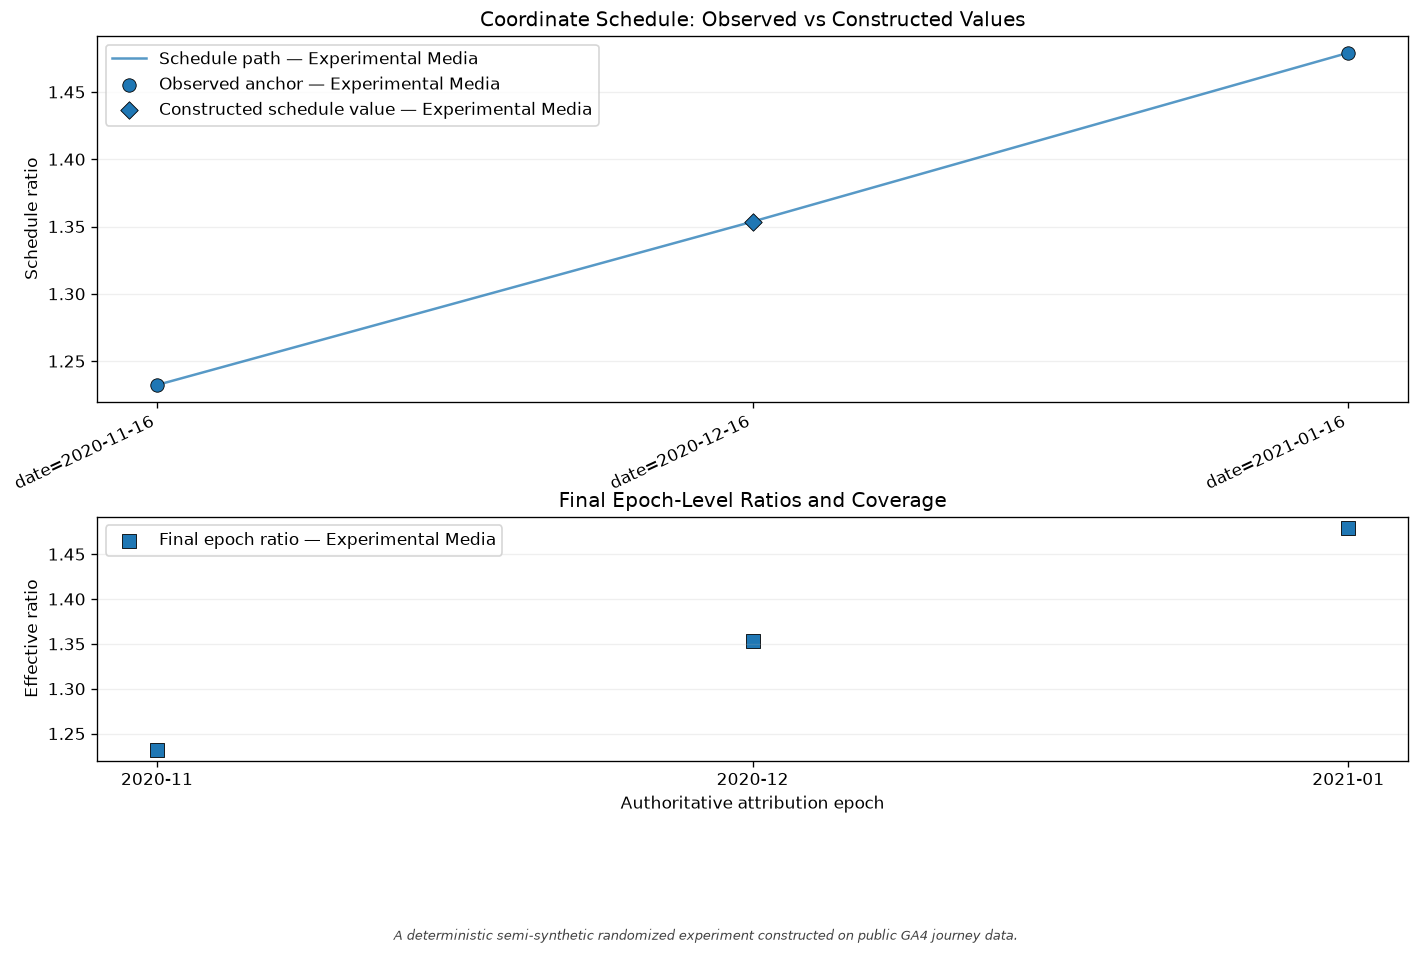
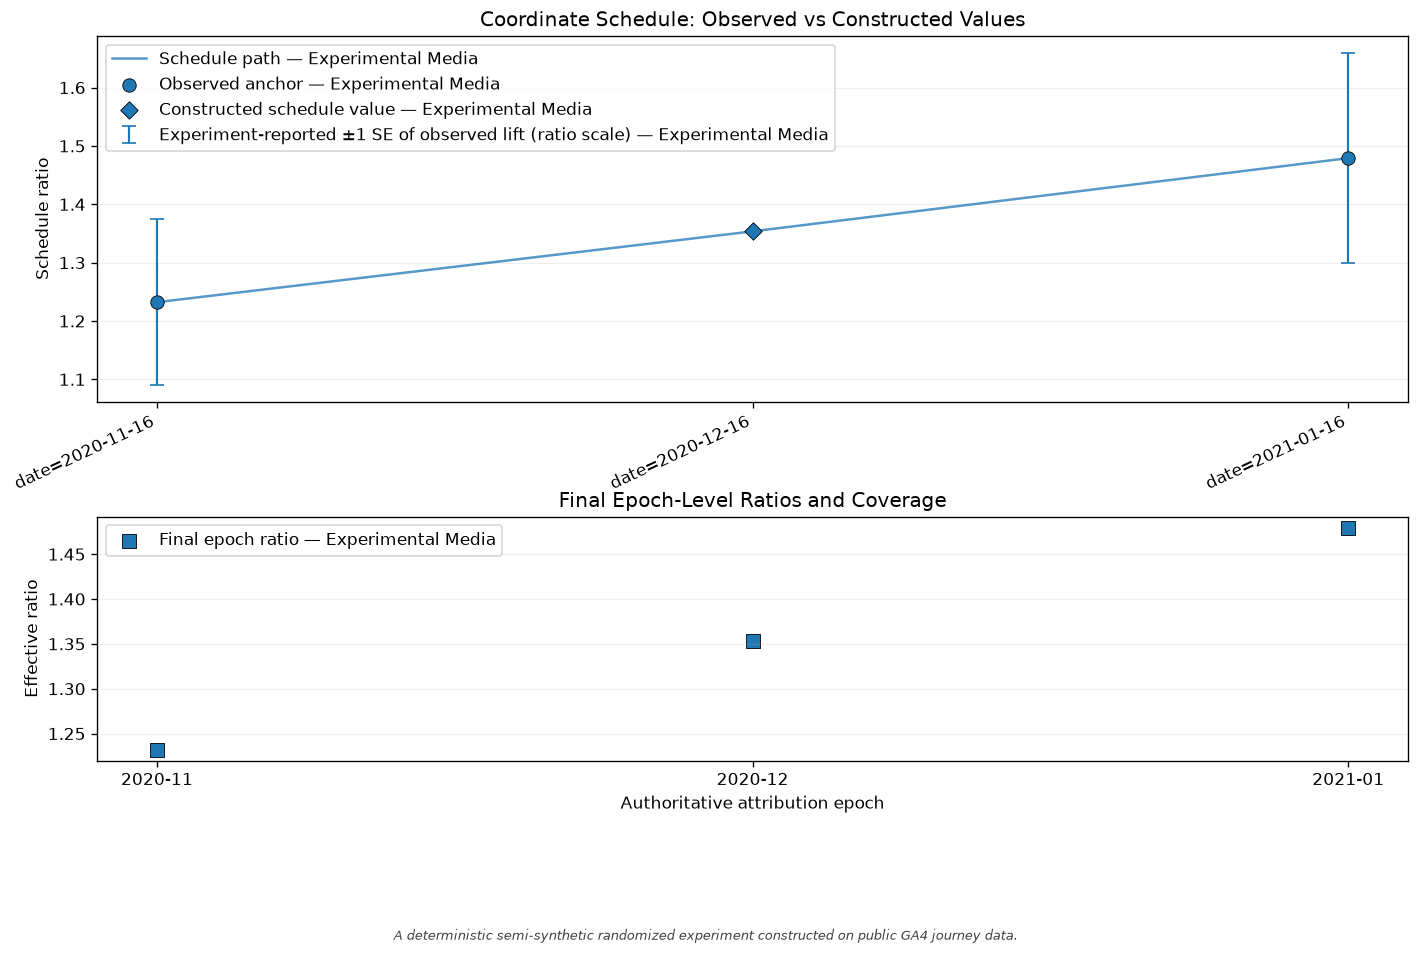
Item 4 follow-up: regenerate the calibration image bank for the SE display
The item 4 commit left two artifacts behind: the checked-in ratio-schedule
image still showed no standard-error bars, and the new
plot_evidence_uncertainty() was not part of the image generator or the
image bank.

- examples/generate_calibration_visuals.py now renders all eight public
  plot methods; the new one writes
  calibration_temporal_evidence_uncertainty.png.
- examples/images/calibration_temporal_ratio_schedule.png is regenerated
  (observed anchors now carry the experiment-reported ±1 SE bars) and
  calibration_temporal_evidence_uncertainty.png is added. The other six
  images are untouched: a fresh generation is pixel-identical to the
  checked-in files.
- docs/calibration_diagnostics.md lists the new image, and the artifact
  test expects eight files and eight plot calls.
- plot_evidence_uncertainty() moves its "what the bars are" note from a
  three-line x-axis label into the legend title. Under the generator's
  footer the long axis label overlapped the provenance line; the axis
  label is now the single line "Observed experimental lift". The legend
  title is omitted when no record reported a standard error.

Images were rendered with matplotlib's stock matplotlibrc. This
container overrides it (MATPLOTLIBRC=/etc/matplotlib, Inter font); with
the stock file the original commit's generator reproduces the previously
checked-in bank exactly.

Claude-Session: https://claude.ai/code/session_01Fvw32bA66vrVMREKAnMTfR

diff --git a/tests/test_temporal_evidence_uncertainty_plot.py b/tests/test_temporal_evidence_uncertainty_plot.py
@@ -164,16 +164,15 @@ def test_bars_are_labelled_as_the_experiments_reported_uncertainty() -> None:
             "Experiment-reported ±1 standard error — A",
             "Experiment-reported ±1 standard error — B",
         }
-        label = " ".join(axis.get_xlabel().split())
-        assert label.startswith("Observed experimental lift")
-        assert (
-            "±1 standard error reported by the experiment for its observed lift"
-            in label
+        assert axis.get_xlabel() == "Observed experimental lift"
+        # The legend, where the bars are decoded, says what they are and
+        # what they are not.
+        note = " ".join(axis.get_legend().get_title().get_text().split())
+        assert note == (
+            "Bars: ±1 standard error reported by the experiment for its "
+            "observed lift — not a confidence interval on calibrated output "
+            "or attribution estimates"
         )
-        assert (
-            "not a confidence interval on calibrated output or attribution "
-            "estimates"
-        ) in label
         for text in [axis.get_title(), *legend, *_annotations(axis)]:
             lowered = text.lower()
             assert "confidence" not in lowered
@@ -198,6 +197,9 @@ def test_records_without_a_standard_error_are_points_marked_no_uncertainty_suppl
             "Observed experimental lift — A",
             "Observed experimental lift — B",
         ]
+        # With no bars drawn there is no bar explanation either.
+        assert axis.get_legend().get_title().get_text() == ""
+        assert axis.get_xlabel() == "Observed experimental lift"
     finally:
         plt.close(figure)
 

diff --git a/tests/test_calibration_visual_artifacts.py b/tests/test_calibration_visual_artifacts.py
@@ -27,6 +27,7 @@ EXPECTED_FILENAMES = (
     "calibration_static_effects.png",
     "calibration_temporal_epoch_alignment.png",
     "calibration_temporal_ratio_schedule.png",
+    "calibration_temporal_evidence_uncertainty.png",
     "calibration_temporal_effects.png",
     "calibration_temporal_residual_allocation.png",
     "calibration_temporal_entity_mix.png",
@@ -61,7 +62,7 @@ def test_checked_in_artifact_bank_has_exact_readable_png_inventory() -> None:
             assert image.height >= 450
 
 
-def test_generator_calls_all_seven_public_plot_methods(
+def test_generator_calls_all_eight_public_plot_methods(
     tmp_path: Path,
     monkeypatch: pytest.MonkeyPatch,
 ) -> None:
@@ -74,6 +75,7 @@ def test_generator_calls_all_seven_public_plot_methods(
         for name in (
             "plot_epoch_alignment",
             "plot_ratio_schedule",
+            "plot_evidence_uncertainty",
             "plot_calibration_effects",
             "plot_residual_allocation",
             "plot_entity_mix",
@@ -104,6 +106,7 @@ def test_generator_calls_all_seven_public_plot_methods(
         "CalibrationResult.plot_calibration_effects",
         "TemporalCalibrationResult.plot_epoch_alignment",
         "TemporalCalibrationResult.plot_ratio_schedule",
+        "TemporalCalibrationResult.plot_evidence_uncertainty",
         "TemporalCalibrationResult.plot_calibration_effects",
         "TemporalCalibrationResult.plot_residual_allocation",
         "TemporalCalibrationResult.plot_entity_mix",

diff --git a/examples/generate_calibration_visuals.py b/examples/generate_calibration_visuals.py
@@ -46,6 +46,7 @@ ARTIFACT_FILENAMES = (
     "calibration_static_effects.png",
     "calibration_temporal_epoch_alignment.png",
     "calibration_temporal_ratio_schedule.png",
+    "calibration_temporal_evidence_uncertainty.png",
     "calibration_temporal_effects.png",
     "calibration_temporal_residual_allocation.png",
     "calibration_temporal_entity_mix.png",
@@ -121,7 +122,7 @@ def _save_figure(figure: Any, destination: Path) -> None:
 def generate_calibration_visuals(
     output_dir: str | Path = DEFAULT_OUTPUT_DIR,
 ) -> tuple[Path, ...]:
-    """Generate all seven public calibration PNG artifacts."""
+    """Generate all eight public calibration PNG artifacts."""
 
     destination = Path(output_dir)
     destination.mkdir(parents=True, exist_ok=True)
@@ -135,6 +136,7 @@ def generate_calibration_visuals(
         static_result.plot_calibration_effects(),
         temporal_result.plot_epoch_alignment(),
         temporal_result.plot_ratio_schedule(),
+        temporal_result.plot_evidence_uncertainty(),
         temporal_result.plot_calibration_effects(),
         temporal_result.plot_residual_allocation(),
         temporal_result.plot_entity_mix(),
@@ -157,7 +159,7 @@ def _parser() -> argparse.ArgumentParser:
         "--output-dir",
         type=Path,
         default=DEFAULT_OUTPUT_DIR,
-        help="Directory that receives the seven deterministic PNG files.",
+        help="Directory that receives the eight deterministic PNG files.",
     )
     return parser
 

diff --git a/do_attribution/calibration.py b/do_attribution/calibration.py
@@ -8139,20 +8139,29 @@ class TemporalCalibrationResult:
             [f"{record.test_id} ({record.tested_entity})" for record in records]
         )
         ax.set_ylim(len(records) - 0.4, -0.6)
-        ax.set_xlabel(
-            "Observed experimental lift\n"
-            "Bars: ±1 standard error reported by the experiment for its "
-            "observed lift —\n"
-            "not a confidence interval on calibrated output or attribution "
-            "estimates"
-        )
+        ax.set_xlabel("Observed experimental lift")
         ax.set_ylabel("Evidence record")
         ax.set_title(
             "Experimental Evidence: Observed Lift ± Experiment-Reported "
             "Standard Error"
         )
         ax.grid(axis="x", alpha=0.2)
-        ax.legend(loc="best")
+        # The bars are explained where they are decoded, in the legend, so
+        # the axis label stays one line under any figure layout.
+        any_reported = any(
+            record.standard_error is not None for record in records
+        )
+        ax.legend(
+            loc="best",
+            title=(
+                "Bars: ±1 standard error reported by the experiment for its "
+                "observed lift —\nnot a confidence interval on calibrated "
+                "output or attribution estimates"
+                if any_reported
+                else None
+            ),
+            title_fontsize=8,
+        )
         fig.tight_layout()
         return fig
 

diff --git a/docs/calibration_diagnostics.md b/docs/calibration_diagnostics.md
@@ -38,6 +38,8 @@ fixed scenario:
 
 ![Temporal ratio schedule](../examples/images/calibration_temporal_ratio_schedule.png)
 
+![Temporal evidence uncertainty](../examples/images/calibration_temporal_evidence_uncertainty.png)
+
 ![Temporal calibration effects](../examples/images/calibration_temporal_effects.png)
 
 ![Temporal residual allocation](../examples/images/calibration_temporal_residual_allocation.png)
